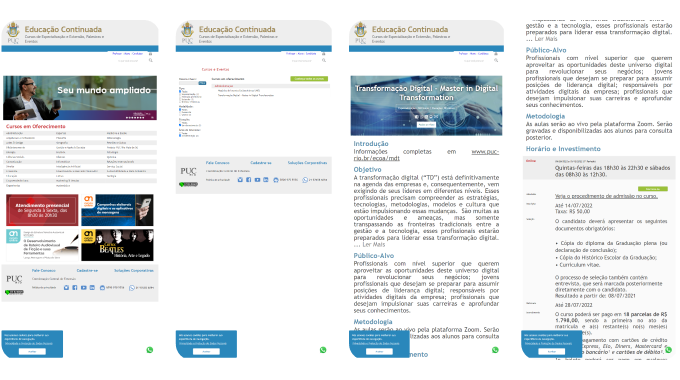
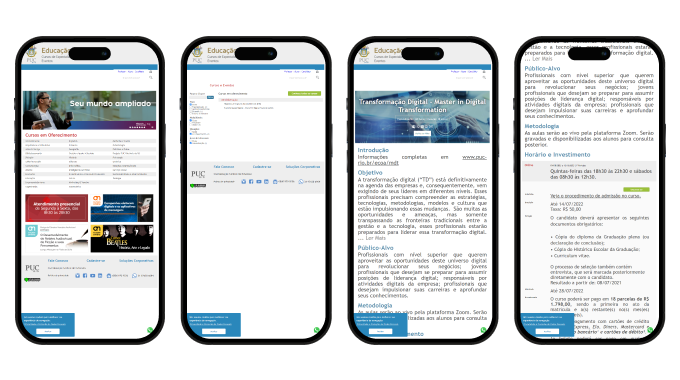
Adição do conteúdo do primeiro case

diff --git a/assets/css/style.css b/assets/css/style.css
@@ -1,1 +1,1 @@
-@import"https://fonts.googleapis.com/css2?family=Material+Symbols+Outlined:opsz,wght,FILL,GRAD@20..48,100..700,0..1,-50..200";@import"https://fonts.googleapis.com/css2?family=Montserrat:ital@0;1&display=swap";@import"https://fonts.googleapis.com/css2?family=DM+Serif+Display:ital@0;1&display=swap";html{scroll-behavior:smooth;-webkit-scroll-behavior:smooth}body{margin:40px auto;width:680px}@media(max-width: 768px){body{margin:40px 24px;width:calc(100% - 48px)}}*{font-family:"Montserrat",sans-serif;font-optical-sizing:auto;font-weight:400;font-style:normal;font-size:24px;line-height:40px}.material-symbols-outlined{font-variation-settings:"FILL" 0,"wght" 200,"GRAD" 0,"opsz" 24;line-height:inherit;font-size:32px}h1,h2,h3{margin-bottom:0;font-family:"DM Serif Display",sans-serif;font-optical-sizing:auto;font-weight:700;font-style:normal;color:#1b1c22}h1,h2{font-size:52px;line-height:60px}h2{margin-top:200px}h3{font-size:40px;line-height:50px}p{margin-top:0;color:#484c5b}strong{font-weight:600;color:#1b1c22}li{list-style-type:circle;color:#484c5b}a{text-decoration:none;position:relative;display:flex;border-radius:8px;color:#1b1c22;transition:color .2s ease-in-out}a:hover{color:#0052cc;fill:#0052cc}a:has(>img){transition:box-shadow .3s ease-in-out}a:has(>img):hover{box-shadow:0 10px 30px #d0d0e0}a span{margin-right:8px}img{width:100%;border-radius:8px}.figma{width:100%;height:680px;border:none}@media(min-width: 992px){.project-nav-start{position:fixed;left:40px}}.project-nav-end{margin-top:40px;padding-top:24px;width:100%;display:flex;justify-content:flex-end;border-top:1px solid #484c5b}.project-nav-end a:nth-of-type(1){margin-right:auto}@media(min-width: 992px){.social{width:88%;display:inline-flex;justify-content:space-between}}.avatar{position:absolute;width:200px;height:200px}/*# sourceMappingURL=style.css.map */
+@import"https://fonts.googleapis.com/css2?family=Material+Symbols+Outlined:opsz,wght,FILL,GRAD@20..48,100..700,0..1,-50..200";@import"https://fonts.googleapis.com/css2?family=Montserrat:ital@0;1&display=swap";@import"https://fonts.googleapis.com/css2?family=DM+Serif+Display:ital@0;1&display=swap";html{scroll-behavior:smooth;-webkit-scroll-behavior:smooth}body{margin:40px auto;width:680px}@media(max-width: 768px){body{margin:40px 24px;width:calc(100% - 48px)}}*{font-family:"Montserrat",sans-serif;font-optical-sizing:auto;font-weight:400;font-style:normal;font-size:24px}.material-symbols-outlined{font-variation-settings:"FILL" 0,"wght" 200,"GRAD" 0,"opsz" 24;line-height:inherit;font-size:32px}h1,h2,h3{margin-bottom:0;font-family:"DM Serif Display",sans-serif;font-optical-sizing:auto;font-weight:700;font-style:normal;color:#1b1c22}h1,h2{font-size:52px;line-height:60px}h3{font-size:40px;line-height:50px}p{margin-top:0;line-height:40px;color:#484c5b}small{margin-top:-24px;font-size:16px;font-style:italic;color:#6e748c}mark{background-color:#484c5b;color:#fff;padding:0 4px}strong{font-weight:600;color:#1b1c22}li{list-style-type:circle;color:#484c5b;line-height:40px}a{text-decoration:none;position:relative;display:flex;border-radius:8px;line-height:40px;color:#1b1c22;transition:color .2s ease-in-out}a:hover{color:#0052cc;fill:#0052cc}a:has(>img){transition:box-shadow .3s ease-in-out}a:has(>img):hover{box-shadow:0 10px 30px #d0d0e0}a span{margin-right:8px}img{width:100%;border-radius:8px}hr{margin:80px 0}.figma{width:100%;height:680px;border:none}@media(min-width: 992px){.project-nav-start{position:fixed;left:40px}}.project-nav-end{margin-top:40px;padding-top:24px;width:100%;display:flex;justify-content:flex-end;border-top:1px solid #484c5b}.project-nav-end a:nth-of-type(1){margin-right:auto}@media(min-width: 992px){.social{width:88%;display:inline-flex;justify-content:space-between}}.avatar{position:absolute;width:200px;height:200px}/*# sourceMappingURL=style.css.map */

diff --git a/assets/css/style.scss b/assets/css/style.scss
@@ -2,7 +2,8 @@
 @import url('https://fonts.googleapis.com/css2?family=Montserrat:ital@0;1&display=swap');
 @import url('https://fonts.googleapis.com/css2?family=DM+Serif+Display:ital@0;1&display=swap');
 
-$font-gray: hsl(228, 12%, 32%);
+$font-light-gray: #6e748c;
+$font-dark-gray: hsl(228, 12%, 32%);
 $font-black: hsl(228, 12%, 12%);
 $font-link: hsl(216, 100%, 40%);
 
@@ -31,7 +32,6 @@ body {
     font-weight: 400;
     font-style: normal;
     font-size: 24px;
-    line-height: 40px;
 }
 
 .material-symbols-outlined {
@@ -58,10 +58,6 @@ h1, h2 {
     line-height: 60px;
 }
 
-h2 {    
-    margin-top: 200px;
-}
-
 h3 {    
     font-size: 40px;
     line-height: 50px;
@@ -69,7 +65,21 @@ h3 {
 
 p {
     margin-top: 0;
-    color: $font-gray;
+    line-height: 40px;
+    color: $font-dark-gray;
+}
+
+small {
+    margin-top: -24px;
+    font-size: 16px;
+    font-style: italic;
+    color: $font-light-gray;
+}
+
+mark {
+    background-color: $font-dark-gray;
+    color: #fff;
+    padding: 0 4px;
 }
 
 strong {
@@ -79,7 +89,8 @@ strong {
 
 li {
     list-style-type: circle;
-    color: $font-gray;
+    color: $font-dark-gray;
+    line-height: 40px;
 }
 
 a {
@@ -87,6 +98,7 @@ a {
     position: relative;
     display: flex;
     border-radius: 8px;
+    line-height: 40px;
     color: $font-black;
     transition: color 0.2s ease-in-out;
     
@@ -116,6 +128,10 @@ img {
     border-radius: 8px;    
 }
 
+hr {
+    margin: 80px 0;
+}
+
 .figma {
     width: 100%;
     height: 680px;
@@ -136,7 +152,7 @@ img {
     width: 100%;
     display: flex;
     justify-content: flex-end; /* Alinha os itens à direita */
-    border-top: 1px solid $font-gray;
+    border-top: 1px solid $font-dark-gray;
 
     a:nth-of-type(1) {
         margin-right: auto; /* Empurra o primeiro link para a esquerda */

diff --git a/index.html b/index.html
@@ -32,6 +32,11 @@
     </script>
 </head>
 <body>
+	<style>		
+		h2 {    
+			margin-top: 200px;
+		}
+	</style>
 	<main id="content"></main>
 
 	<div class="social">

diff --git a/project-1.md b/project-1.md
@@ -1,23 +1,52 @@
-# Premium Posgraduate Redesign
+![](assets/images/project-1/intro.png)
 
+# Premium Posgraduate Redesign
 The navigation flow and the entire course purchase process were completely renewed.
 
-- **Timeline** 3 months (May - July 2022)
-- **My role** Product Designer, UX Researcher
-- **Team** The product manager and I
+- **Timeline** 3 months (May - July 2022).
+- **My role** Product Designer and UX Researcher.
+- **Team** The product manager and I.
 - **Goals** Redesign the course purchase experience to highlight their premium offering.
-- **Constraints** Available time. This was a project I worked on during spare time intervals while engaged with my squad's main project.
 
-*8 min read*
+<small>8 min read</small>
 
 ---
+
+## Previous Design
+There was no mobile version, and what loaded on smartphones was the reduced web version.
+
+![](assets/images/project-1/old-screens-1.png)
+<small>Simplified previous course selection journey.</small>
+
+![](assets/images/project-1/old-screens-2.png)
+<small>Simplified previous course purchase journey.</small>
+
+## Research
+In the market perception analysis, compared to other institutions offering the same model of digital post-graduate programs, <mark>the university was positioned with the second-highest price.</mark>
+
+In the benchmarking of the enrollment journey, it became clear that the user effort required to enroll using the website was much higher compared to competitors.
 
 ## What were the problems?
+- We did not have a defined visual identity.
+- We needed to <mark>communicate the aspect of a premium product</mark>, respecting the market positioning found in the previous analysis.
 
 ---
 
-![Old](assets/images/project-1/old-screens-1.png)
-![Old](assets/images/project-1/old-screens-2.png)
+## Redesigning the experience
+The redesign incorporated all aspects of the previous analysis. <mark>I created a style guide containing navigation components and a new color palette.</mark>
 
-I need to highlight these <mark>very important words</mark>.
+![](assets/images/project-1/new-screens-1.png)
+<small>Simplified new course selection journey.</small>
 
+![](assets/images/project-1/new-screens-2.png)
+<small>Simplified new course purchase journey.</small>
+
+## Usability Testing
+Using Maze, two unmoderated usability tests were conducted to test the fluidity of navigation and the difference from the previous version: one test with the previous version and one test with the new version. 
+
+The 10 tests performed (5 of each model) resulted in <mark>57.14% faster navigation and a 67% drop in the rate of incorrect clicks.</mark>
+
+Regarding the recruitment of participants, it was done by me, and a discount coupon for the bookstore was used as an incentive to help with this.
+
+## Figma mobile protype
+While a desktop prototype existed, the project focused on mobile.

diff --git a/index.md b/index.md
@@ -7,13 +7,13 @@ Experienced designer specializing in creating digital products for e-commerce, m
 
 Brazilian, obtaining Spanish citizenship by end-2024.
 
-## Recent projects
-Relevant experience from recent times
+## Work Cases
+Relevant experience from last years
 
 [![Mobile Website for Pontifical Catholic University of Rio de Janeiro (PUC-Rio) showcasing postgraduate courses and Master in Digital Transformation program.](assets/images/project-1/post.webp)](project-1.html)
 
 ### Premium Posgraduate Redesign
-In this redesign, the navigation flow and the entire course purchase process were completely revamped.
+In this redesign, the navigation flow and the entire course purchase process were completely renewed.
 [View project](project-1.html)
 
 ## More about me
